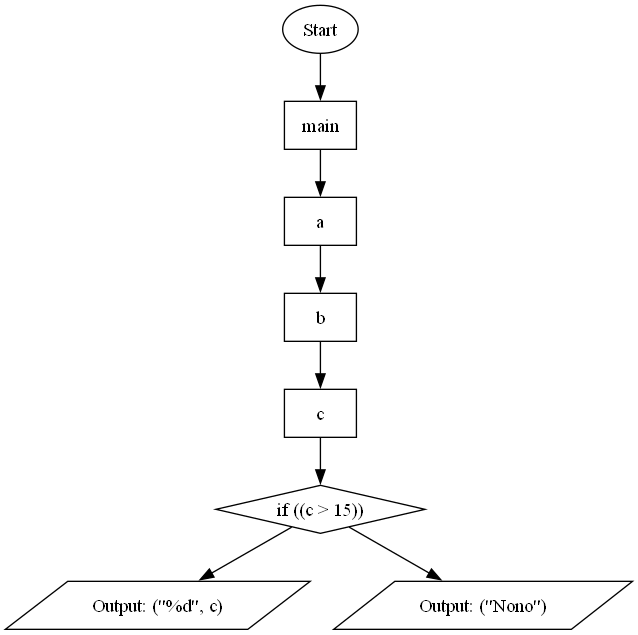
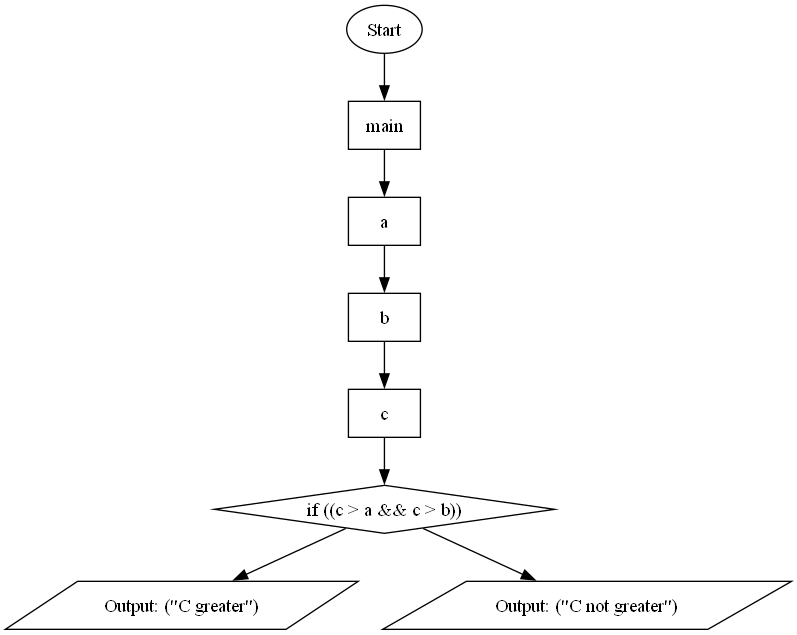
made changes to initial commit

diff --git a/flowchart_generator.py b/flowchart_generator.py
@@ -5,7 +5,7 @@ class FlowchartGenerator:
         self.graph = graphviz.Digraph(comment='Flowchart')
         self.graph.node('Start', 'Start', shape='oval')
         self.current_node = 'Start'
-        self.nodes_created = set() 
+        self.nodes_created = set()  
 
     def add_node(self, name, label, shape):
         if name not in self.nodes_created: 
@@ -70,11 +70,11 @@ void main() {
 
    int c = a + b;
 
-   if (c > 15) {
-       printf("%d", c);
+   if (c > a && c > b) {
+       printf("C greater");
    }
    else {
-        printf("Nono");
+        printf("C not greater");
    }
 }
 """

diff --git a/README.md b/README.md
@@ -1,2 +1,10 @@
 Flowpy, a simple python script whcih uses the Graphviz library to create flowcharts of code.
 Had a shitty assignment to submit all the practicals as flowcharts. so wrote this simple script, with the help of gpt.
+
+How to use :
+
+in the c_code variable, put the code you want to generate flow chart for, run the script (make sure you have graphviz installed, if not then run the command in your cmd, pip install graphviz)
+
+once you run the script, you will be having the png of your flow chart in the same folder as your source code.
+
+NOTE: this yet does not support all the functions of C, but it would work for basic loops, conditionals, and prinitng stuff.
